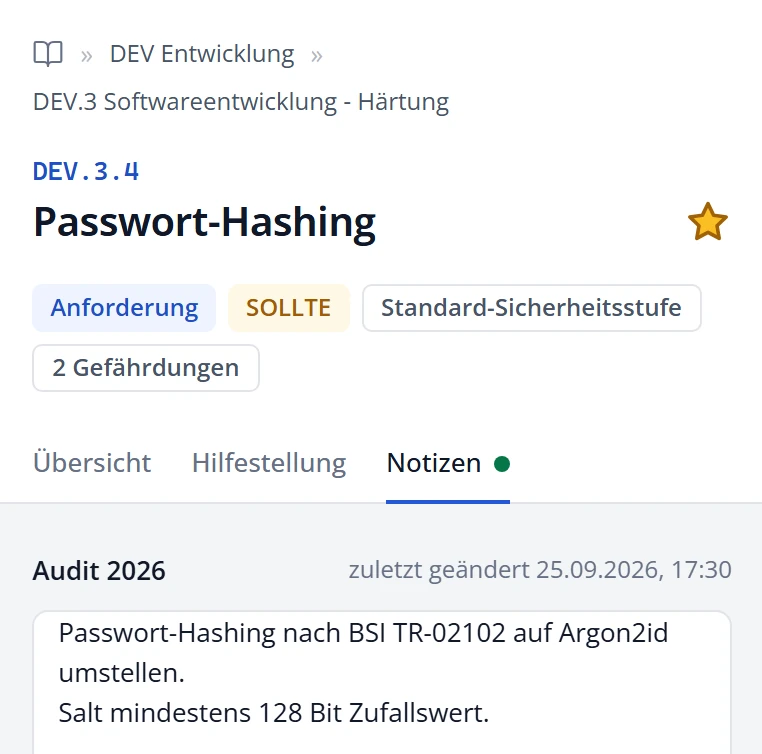
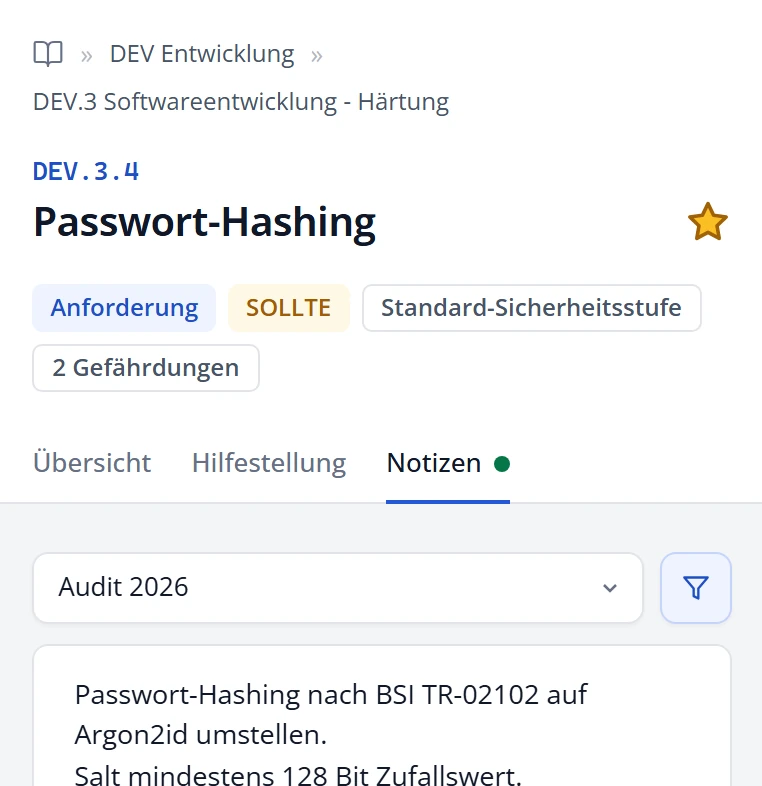
Update screenshot dimensions and replace images for detail view

diff --git a/www/index.html b/www/index.html
@@ -240,7 +240,7 @@
           <div class="split-media narrow">
             <div class="frame">
               <button class="shot-btn" type="button" aria-label="Screenshot vergrößern">
-                <img src="media/screens/detail-notizen.webp" width="762" height="754" loading="lazy"
+                <img src="media/screens/detail-notizen.webp" width="762" height="786" loading="lazy"
                      alt="Reiter Notizen in der Detailansicht einer Anforderung" />
               </button>
             </div>
